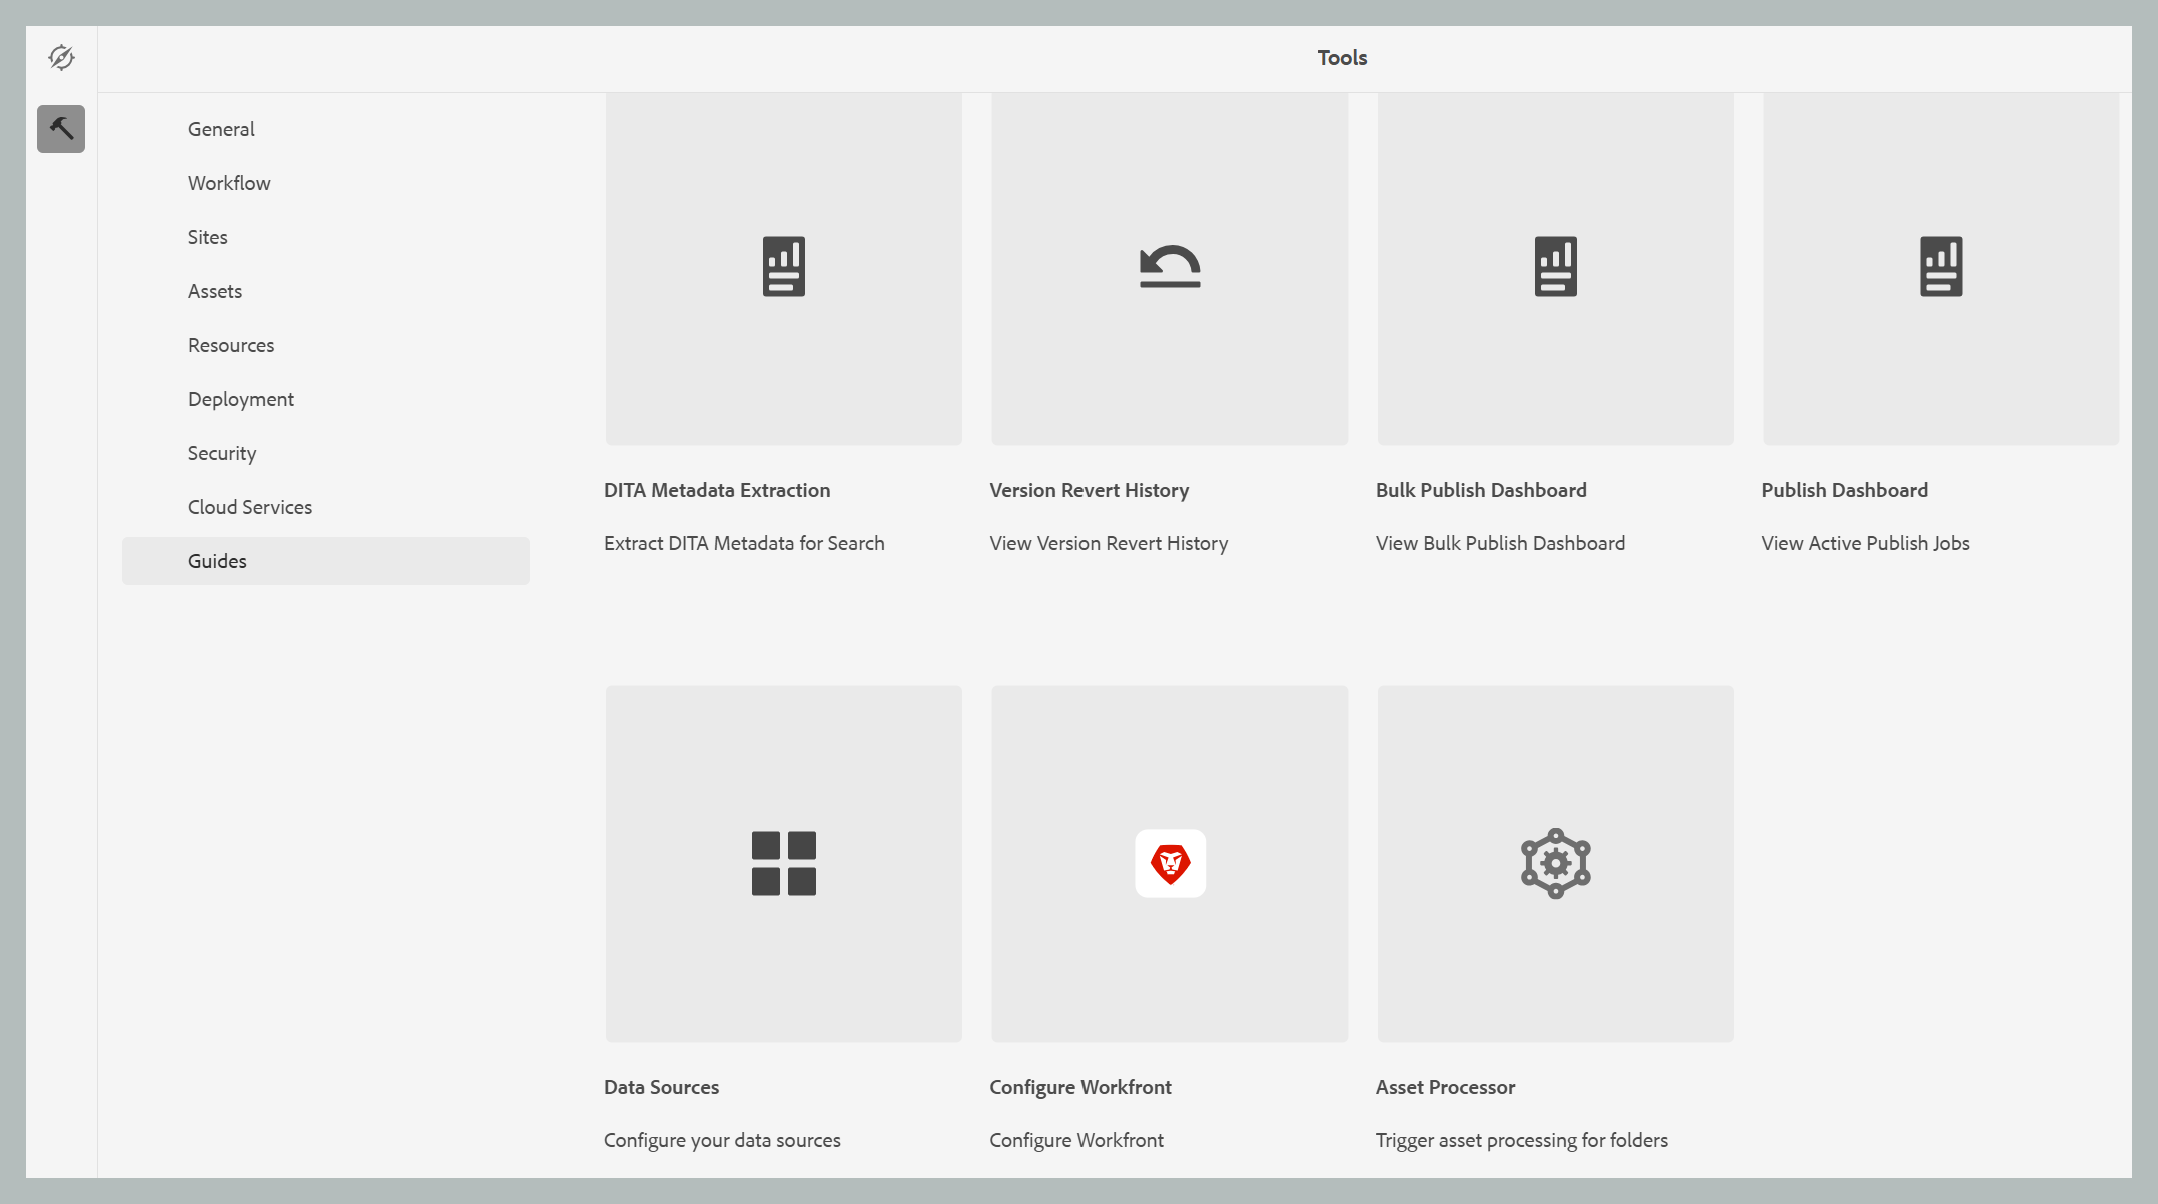
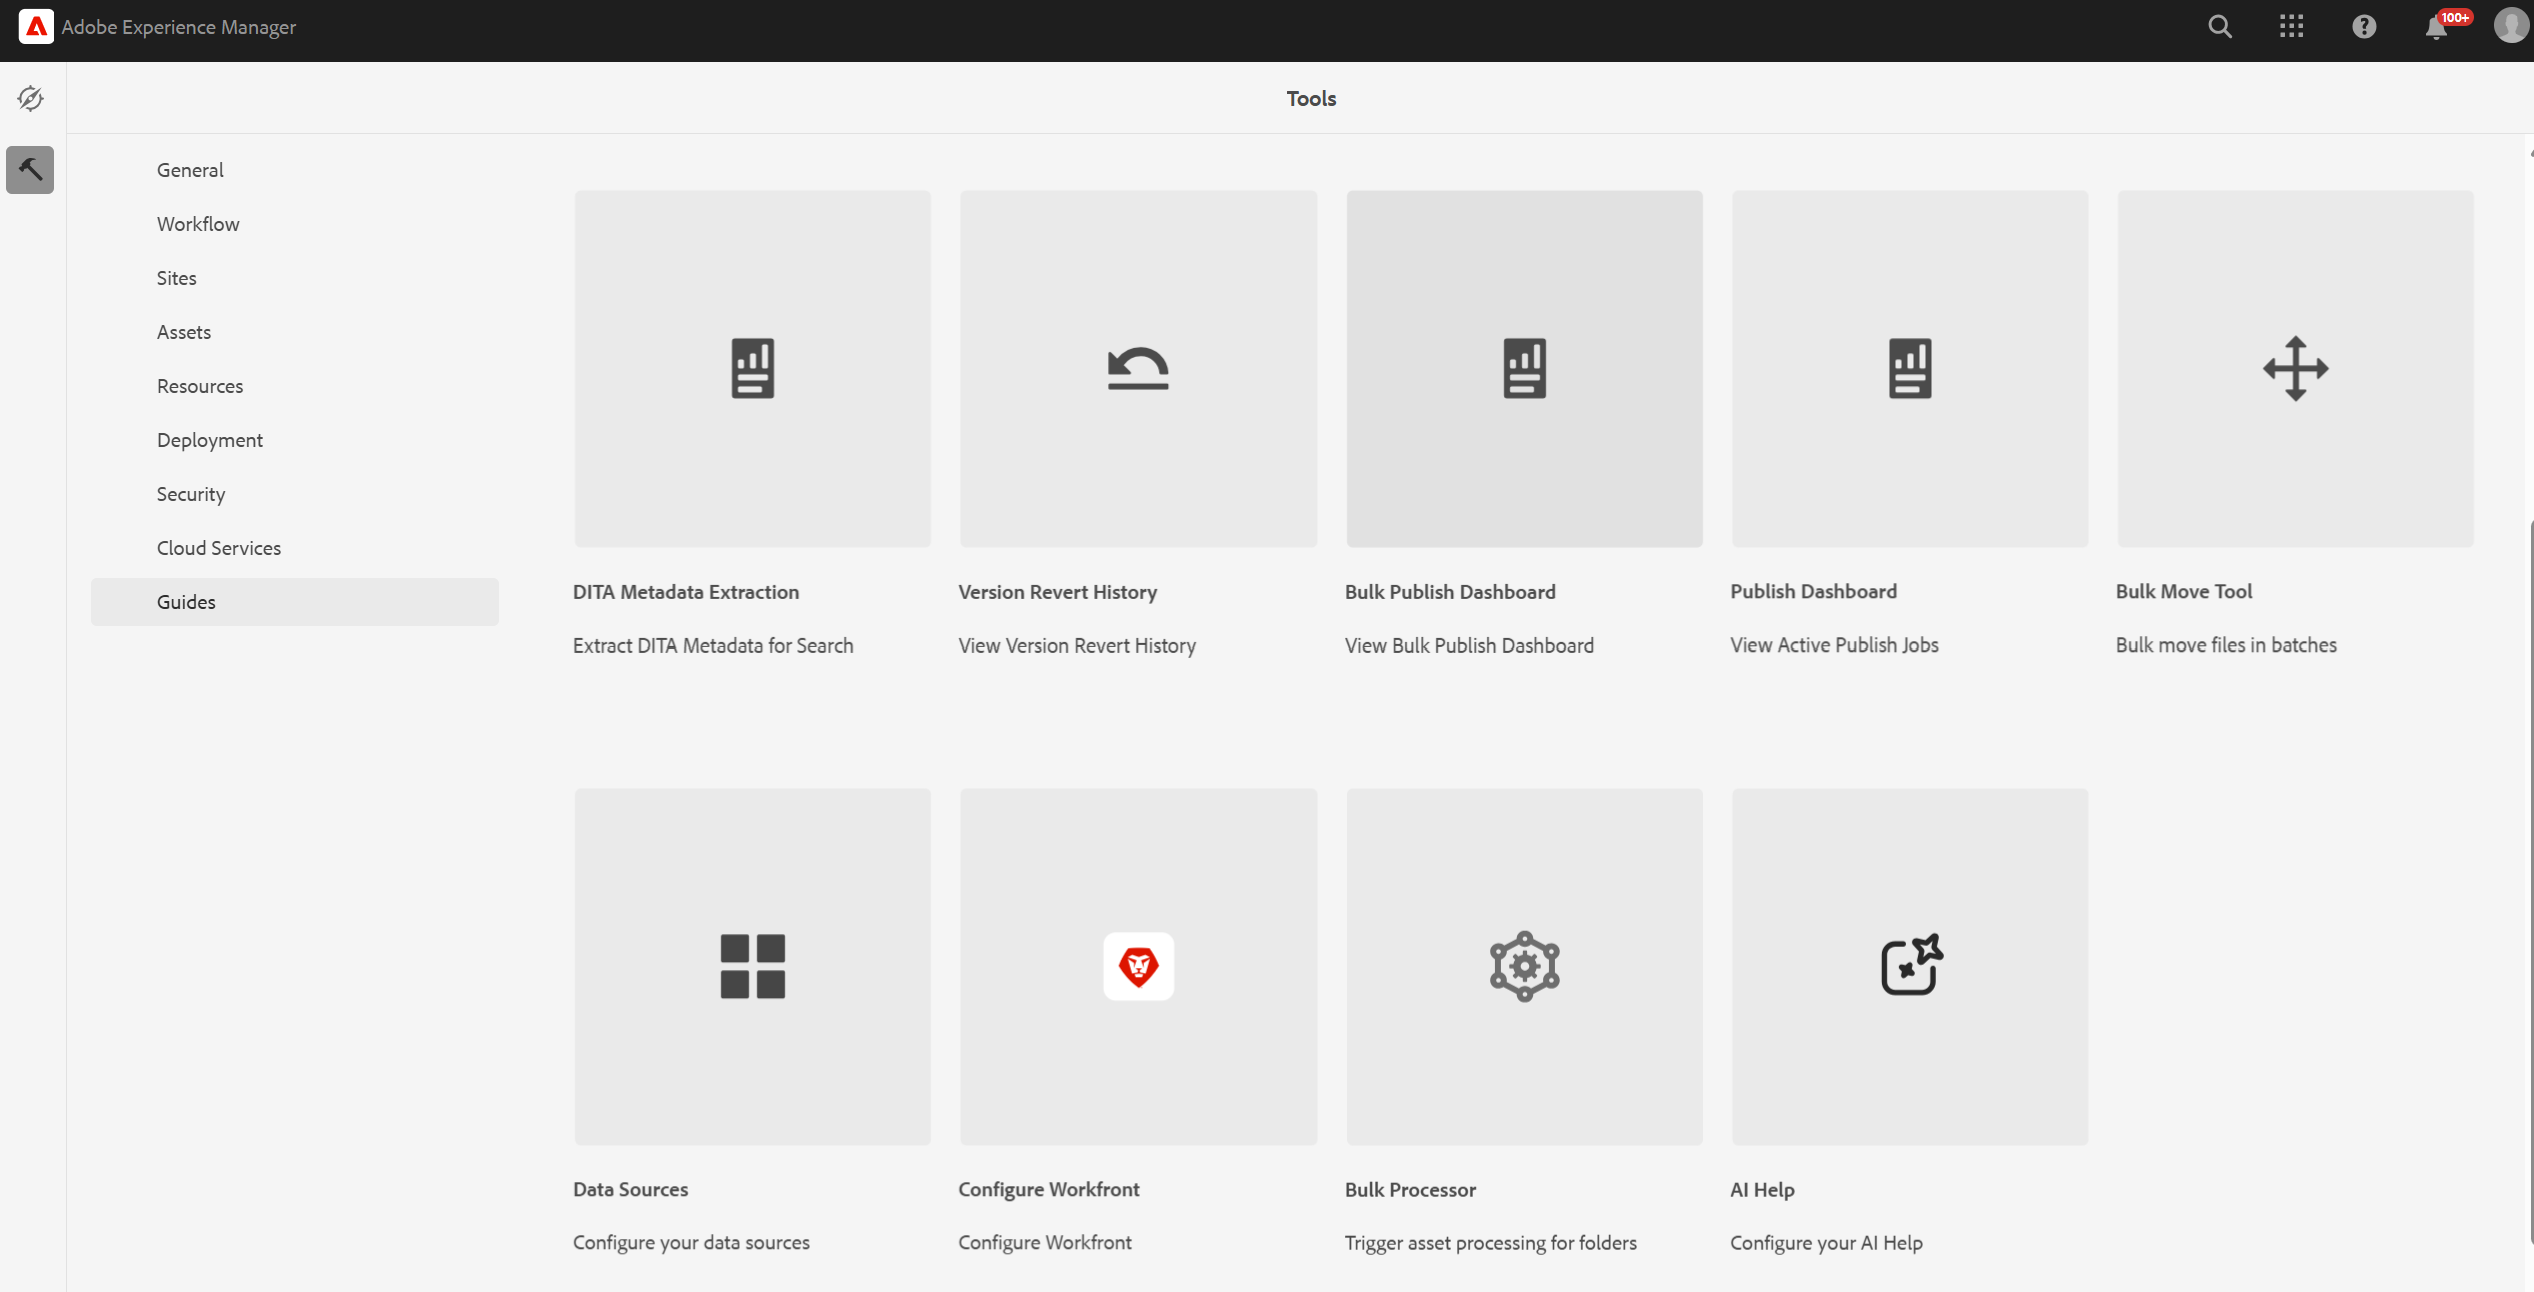
made changes for GUIDES-37535 and GUDES-22192

diff --git a/help/product-guide/user-guide/publishing-scalability-faq.md b/help/product-guide/user-guide/publishing-scalability-faq.md
@@ -5,14 +5,16 @@ description: Learn about the frequently asked questions on Publishing Performanc
 ---
 # FAQ 
 
-The following is a list of answers to frequently asked questions that provides detailed insights into how Adobe Experience Manager Guides manages publishing workflows, scaling behavior, and infrastructure performance.It is intended for enterprise users, administrators, and documentation teams using AEM Guides for large-scale publishing.
+The following is a list of answers to frequently asked questions that provides detailed insights into how Adobe Experience Manager Guides manages publishing workflows, scaling behavior, and infrastructure performance.It is intended for enterprise users, administrators, and documentation teams using Experience Manager Guides for large-scale publishing.
 
-## How many publishing requests can AEM Guides run per day?
+![](images/IO_runtime.drawio.png){align="left"}
 
-The number of publishing requests AEM Guides can process per day depends on the size and type of content. By configuration, the system allows one publishing job per processor core. In the current setup, 20 publishing jobs can run in parallel (2 pods × 10 cores each).
 
-As the production environment auto-scales, this number can increase to 40 concurrent publishing jobs when the pods scale up to 4.
- 
+## How many publishing requests can Experience Manager Guides run per day?
+
+The number of publishing requests Experience Manager Guides can process per day depends on the size and type of content. As per the configuration, the system allows one publishing job per processor core. In the current setup, 20 publishing jobs can run in parallel (2 pods × 10 cores each).
+
+As the production environment auto-scales, this number can increase to 40 concurrent publishing jobs when the pods scale up to 4. 
 
 ## How many publishing requests can run concurrently before they are queued?
 
@@ -21,18 +23,17 @@ As the production environment auto-scales, this number can increase to 40 concur
 
 This number may vary based on overall server load. If other background Sling jobs are running, they share processing cores, potentially reducing the concurrency to below 20.
 
-
 ## Does running multiple publishing requests impact other application functionalities such as editing .dita files?
 
 There may be some performance impact, but it is generally minimal. Most heavy processing occurs on the IO runtime (serverless publishing service), while the AEM instance primarily performs I/O operations for dependency generation and status polling. As a result, CPU utilization within AEM remains low, and authoring/editing experiences are largely unaffected.
 
-## How does AEM Guides manage large files and graphics such as SVGs or .dita files exceeding 500 KB?
+## How does Experience Manager Guides manage large files and graphics such as SVGs or .dita files exceeding 500 KB?
 
 All large files are zipped and stored in the JCR (Java Content Repository). The IO runtime fetches the complete zip package before initiating publishing. Even when handling multiple large files (e.g., 500 KB each), this does not significantly affect download or transfer speed because of optimized packaging and parallel I/O handling. 
 
-## What is the publishing infrastructure and configuration used by AEM Guides?
+## What is the publishing infrastructure and configuration used by Experience Manager Guides?
 
-AEM Guides uses containerized, serverless microservices for publishing. Each new version of the publishing service is released as a Docker image, automatically deployed in Adobe's cloud environment. This design ensures:
+Experience Manager Guides uses containerized, serverless microservices for publishing. Each new version of the publishing service is released as a Docker image, automatically deployed in Adobe's cloud environment. This design ensures:
 
 - No dedicated infrastructure maintenance for customers
 - Automatic scaling to handle publishing demand
@@ -40,76 +41,83 @@ AEM Guides uses containerized, serverless microservices for publishing. Each new
 
 ## If the publishing queue or management system crashes due to overload, will other AEM functionalities be affected?
 
-No. AEM Guides is built with fault-tolerant architecture. If the publishing queue experiences overload, requests are automatically retried, and pods auto-scale to handle the additional load.Beyond a certain threshold, load throttling is applied to maintain stability. Other application areas (authoring, reviewing, asset management) remain unaffected.
+No, the Experience Manager Guides is built with a fault-tolerant architecture. If the publishing queue experiences overload, requests are automatically retried, and pods auto-scale to handle the additional load. Beyond a certain threshold, load throttling is applied to maintain stability. Other application areas (authoring, reviewing, asset management) remain unaffected.
 
-## Is there a monitoring tool or log access available to identify when AEM Guides is under heavy load (similar to Jenkins monitoring)?
+## Is there a monitoring tool or log access available to identify when Experience Manager Guides is under heavy load (similar to Jenkins monitoring)?
 
-End customers currently do not have access to internal monitoring tools.For Adobe internal teams, monitoring can be done using:
+No, currently you do not have access to internal monitoring tools. For Adobe internal teams, monitoring can be done using:
 
 - Splunk for log and error tracking
 - Kubernetes (K8s) CLI for checking pod-level performance and scaling behavior
+
 If performance degradation is noticed, customers should contact Adobe Support to initiate investigation and analysis.
 
 ## What processing is done before dispatching a publishing request to the microservice?
 
-When a user triggers a publishing request from the Presets tab in the Map Console, the following steps occur:
+When you trigger a publishing request from the Presets tab in the Map Console, the following steps occur:
 
 1. The system accepts the request and validates the baseline and conditional presets.
 2. AEM aggregates all qualifying DITA assets and dependencies.
 3. These assets are bundled into a zip package.
-4. The serverless publishing service spins up a Docker container, downloads the assets, executes the publishing operation, and places the generated output artifacts back into AEM Guides.
+4. The serverless publishing service spins up a Docker container, downloads the assets, executes the publishing operation, and places the generated output artifacts back into Experience Manager Guides.
+
 This workflow ensures reliable, isolated, and scalable publishing execution.
 
-## How much time does a map take before it starts publishing on the microservice container? What factors define this time?
+## How much time does a map take before it starts publishing on the microservice container and what are the factors that define this time?
 
-A publishing request typically takes a few minutes before it is dispatched to the microservice container.This initial time is used for dependency aggregation within AEM.
-Once on the serverless publishing service, total publishing time depends on:
+A publishing request typically takes a few minutes before it is dispatched to the microservice container. This initial time is used for dependency aggregation within AEM.
+
+Once the request is received on the serverless publishing service, the total publishing time depends on:
 
 - Size of the DITA map
 - Number of topics and media assets
 - Complexity of conditional content and formatting rules
+
 Larger or more complex maps may take proportionally longer to publish.
 
-## Can AEM Guides prioritize publishing requests in the queue (instead of First-Come, First-Serve)?
+## Can Experience Manager Guides prioritize publishing requests in the queue (instead of First-Come, First-Serve)?
 
-Currently, all publishing jobs are treated equally and follow a First-Come, First-Serve (FCFS) model.There is no prioritization mechanism available at this time.
-However, in future releases, prioritization logic (e.g., based on job size or business importance) could be introduced as part of queue optimization enhancements.
+Currently, all publishing jobs are treated equally and follow a First-Come, First-Serve (FCFS) model. There is no prioritization mechanism available currently.
 
-## How does AEM Guides handle auto-scaling for publishing requests?
+However, in future releases, prioritization logic (for example, based on job size or business importance) could be introduced as a part of queue optimization enhancements.
 
-AEM Guides publishing infrastructure supports automatic scaling (autoscaling) based on load.When publishing demand increases:
+## How does Experience Manager Guides handle auto-scaling for publishing requests?
+
+Experience Manager Guides publishing infrastructure supports automatic scaling (autoscaling) based on load. When publishing demand increases:
 
 - Additional pods (containers) are automatically spun up.
 - Each pod can process multiple publishing jobs in parallel.
 - Once the load decreases, pods scale down to optimize cost and performance.
+
 This ensures high availability, consistent performance, and minimal queue time during peak load.
 
 ## What happens if a publishing job fails or times out?
 
-If a publishing request fails due to a transient issue (e.g., network interruption, service timeout):
+If a publishing request fails due to a transient issue (for example, network interruption, service timeout):
 
-- It is automatically retried based on retry logic configured in the publishing service.
-- Logs and error messages are captured in the backend for diagnostic purposes.
-- Users can view failure status and retry publishing manually from the Map Console if needed.
+- it is automatically retried based on retry logic configured in the publishing service.
+- logs and error messages are captured in the backend for diagnostic purposes.
+- you can view failure status and retry publishing manually from the Map Console if needed.
 
-## Can users monitor or track publishing job progress?
+## Can you monitor or track the progress of a publishing job?
 
-Yes.AEM Guides provides real-time job status updates in the Presets tab of the Map Console, including:
+Yes, Experience Manager Guides provides real-time job status updates in the Presets tab of the Map Console, including:
 
 - Job start and completion time
 - Current stage (zipping, dispatching, publishing, or uploading results)
 - Error notifications (if any)
-This helps users understand job progress and identify potential delays.
 
-## What best practices can improve publishing performance in AEM Guides?
+This helps you understand job progress and identify potential delays.
+
+## What best practices can improve publishing performance in Experience Manager Guides?
 
 To ensure optimal publishing speed:
 
-- Avoid unnecessary large image files or unreferenced topics.
-- Use baselines to limit the scope of publishing.
-- Keep DITA map hierarchies manageable and well-organized.
-- Schedule heavy publishing during off-peak hours.
-- Use conditional filters effectively to reduce processing load.
+- Avoid unnecessary large image files or unreferenced topics
+- Use baselines to limit the scope of publishing
+- Keep DITA map hierarchies manageable and well-organized
+- Schedule heavy publishing during off-peak hours
+- Use conditional filters effectively to reduce processing load
 
 
 

diff --git a/help/product-guide/user-guide/asset-processor.md b/help/product-guide/user-guide/asset-processor.md
@@ -12,7 +12,8 @@ In data-intensive workflows such as publishing, efficient asset management is cr
 
 >[!NOTE]
 >
-> For large datasets, it's best to run processing during off-peak hours to avoid impacting system performance. After the processing task completes, you can review the details to analyze the results.
+> - For large datasets, it's best to run processing during off-peak hours to avoid impacting system performance. After the processing task completes, you can review the details to analyze the results.<br>
+>- The Asset processing for the `/content/dam` folder is automatically triggered by the system every 15 minutes. This scheduled process ensures that any newly added and previously unprocessed assets are picked up and processed.  You can use this setting by enabling the setting `Enable Guides asset processing scheduled job` in the `fmditaconfigMgr`.
  
 ## Processing the assets
 
@@ -20,29 +21,33 @@ Follow the below mentioned steps to process or reprocess the assets:
 
 1. Select the Adobe Experience Manager logo at the top and choose **Tools**.
 1. In the **Tools** panel select **Guides**.
-1. Select the **Asset Processor** Tile.
+1. Select the **Bulk Processor** tile.
 
     ![flow-asset-processor](images/flow-asset-processor.png){align="left"}
 
-1. The Guides Asset Processor window opens with the details shown below. Also, only the information pertaining to the last five migrations are displayed on this window. 
+1. The Guides Bulk Processor window opens with the details shown below. Also, only the information pertaining to the last five migrations are displayed on this window. 
 
-    -   **Execution ID**: It is the unique Id for each reprocessing task that you perform.
+    - **Feature type**: Shows the feature of the process that is being executed.
 
-    -   **Folder**: Shows the folder selected for reprocessing.
+    - **Execution ID**: It is the unique Id for each reprocessing task that you perform.
 
-    -   **Excluded Folders**: Points to the folder that is excluded from reprocessing.
+    - **Folder**: Shows the folder selected for reprocessing.
 
-    -   **Start time:** Shows the date and time the reprocessing process is initiated.
+    - **Excluded Folders**: Shows the folder that is excluded from reprocessing.
 
-    -   **End Time**: Shows the date and time the reprocessing process ends.
+    - **Created by**: Shows who created the task or process. It can be the system as well as the user.
 
-    -   **Status**: Points to the status of reprocessing as In progress, Completed or Cancelled.
+    - **Start time:** Shows the date and time the reprocessing process is initiated.
 
-    ![Guides-asset-processor](images/guides-asset-processor.png){align="left"}
+    - **End Time**: Shows the date and time the reprocessing process ends.
+
+    - **Status**: Shows the status of reprocessing as In progress, Completed or Cancelled.
+
+    ![Guides-asset-processor](images/guides-asset-processor-new.png){align="left"}
 
 1. Select **New Process** tab on the top right corner of the window to start a new processing task.
 
-    ![New-process-asset-processor](images/new-process-asset-processor.png){width="550" align="left"}
+    ![New-process-asset-processor](images/new-asset-processor.png){width="550" align="left"}
 
 1. Select the folder you want to process or reprocess. You can also select the folders (within the parent selected folder) which you want to exclude or ignore.
 
